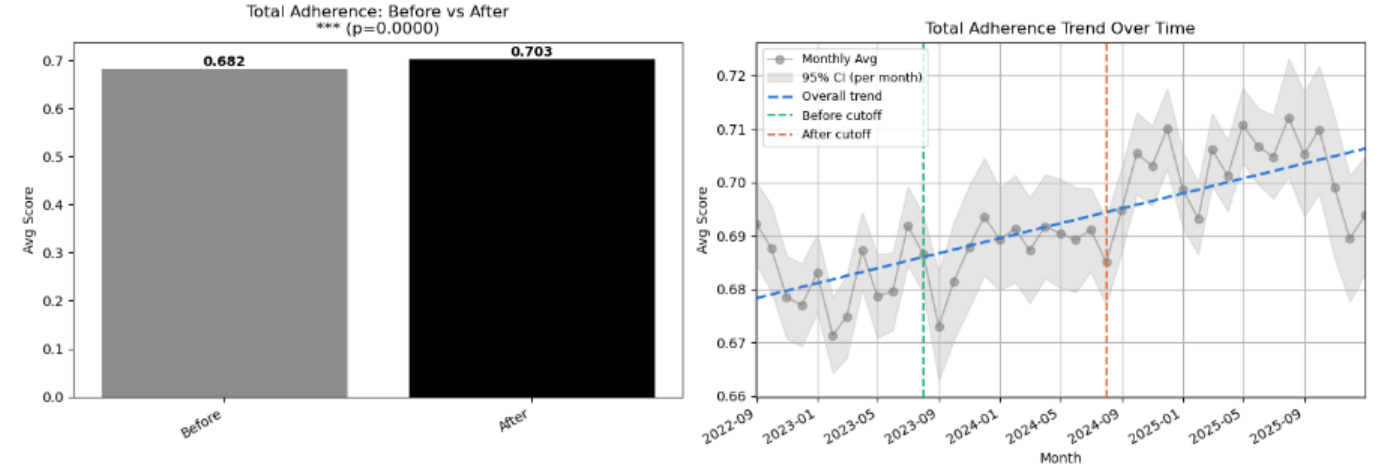
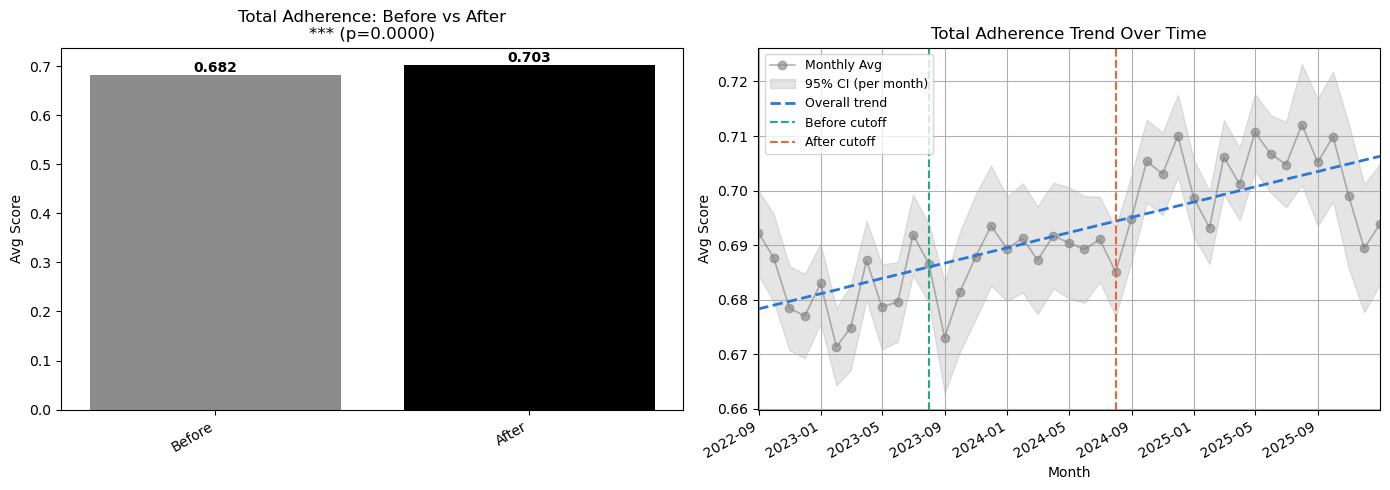
Refresh Kineret clinical study figures

Changed region(s): [[0.0, 0.0, 1.0, 0.9767], [0.9294, 0.7104, 1.0, 0.74]]

diff --git a/KineretClinicalStudy/JAMIA2027/jamia/README.md b/KineretClinicalStudy/JAMIA2027/jamia/README.md
@@ -26,7 +26,8 @@ Use the distinct Main Document, Figure, and Supplementary designations when offe
 ## Items still requiring author input or review
 
 - **Supplementary ZIP retained locally.** `supplementary-data/supplementary-code.zip` contains all 332 tracked files from both repositories plus README/manifest. The portal rejected full and split ZIP attempts, so no code ZIP is uploaded at this stage. The cover letter explains this and offers the complete archive on request. Redundant archive parts were removed. Regenerate using `python package_supplementary.py`; builds do not copy the archive into `submission/`.
-- **Figures upscaled from existing PNGs:** `export_figures.py` creates 4x Lanczos-resampled submission copies at 600 DPI, preserving source files in `figures/`. Dimensions are 5552 x 1892, 5512 x 2124, 5440 x 1552, and 4396 x 1504 pixels. These are interpolated raster exports, not newly rendered plots. Python/Pillow is required; the JAMIA build regenerates them automatically.
+- **Figures refreshed 12 November 2026:** four source PNGs replaced from the new notebook export, with original manuscript filenames retained. See `../FIGURE_IMPORT_2026-11-12.md` for mapping and source dimensions. `export_figures.py` regenerated the 4x/600-DPI submission copies; these are interpolated raster copies, not vector exports. Figure 4 includes an embedded caption and needs a caption-free source export for final production.
+
 - **Word counts verified using TeXcount:** body 3,907 + 47 heading words = **3,954**; abstract 249 + its heading = **250**. Title page updated to the conservative body total including headings. Git's Perl runs TeXcount directly; a standalone Perl installation is not required.
 - **Tables:** four editable Word companions are generated from the LaTeX sources by `export_tables.py` (requires Pandoc and Python). Main-PDF tables each fit on one page. The PDF retains tables after their first citing paragraphs in source; LaTeX may float them. The portal/editorial office may still request a Word manuscript with the tables embedded at first citation.
 - **References:** local `jamia.bst` now uses numbered citation order, surname/initials, first three authors plus et al., and journal year;volume:pages formatting. Journal abbreviations and two incomplete records were corrected. Web access dates were supplied by the corresponding author: June 2025 for the Atlas and two Israeli reports; September 2026 for the position paper and both repositories. Final bibliographic accuracy review remains an author task.
